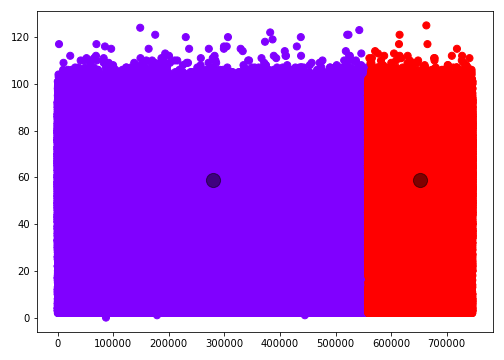
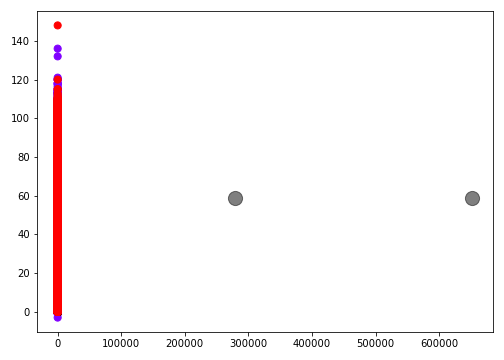
finalização

diff --git a/test.py b/test.py
@@ -32,8 +32,7 @@ teste2 = teste.values
 '''removendo valores diferentes de obitos e cura'''
 dados  = dados.drop(dados[dados['EVOLUCAO'] > 2 ].index)
 dados  = dados.drop(dados[dados['EVOLUCAO'] < 1  ].index)
-
-    
+   
 '''tranformando valores em rotulos'''
 #tst = teste['EVOLUCAO'].apply(preprocessing.LabelEncoder().fit_transform)        
 teste = dados.apply(preprocessing.LabelEncoder().fit_transform)
@@ -41,7 +40,7 @@ teste = dados.apply(preprocessing.LabelEncoder().fit_transform)
 # visualização de quantos registros existem por classe
 unicos,quantidade = np.unique(teste,return_counts=True)
 teste3 = teste.to_numpy()
-arr = teste['EVOLUCAO'].values
+
 #instanciando KMeans/ criando agrupamentos
 cluster = KMeans(n_clusters=2)
 cluster.fit(teste)
@@ -60,7 +59,6 @@ unicos2, quantidade2 = np.unique(previsoes,return_counts = True)
 resultados = confusion_matrix(teste['EVOLUCAO'],previsoes)
  
 '''-----------------------''' 
-
 from sklearn.metrics import pairwise_distances_argmin
 
 def find_clusters(X, n_clusters, rseed=2):
@@ -68,38 +66,34 @@ def find_clusters(X, n_clusters, rseed=2):
     rng = np.random.RandomState(rseed)
     i = rng.permutation(X.shape[0])[:n_clusters]
     centers = X[i]
-    
     centers_his = []
     labels_his = []
     
     while(True):
         # 2a. Assign labels based on closest center
         labels = pairwise_distances_argmin(X, centers)
-        
+
         # 2b. Find new centers from means of points
         new_centers = np.array([X[labels == i].mean(0)
                                 for i in range(n_clusters)])
-        
         # 2c. Check for convergence
         if np.all(centers == new_centers):
             break
         centers = new_centers
-        
         centers_his.append(centers)
         labels_his.append(labels)
-    
     return centers, labels, centers_his, labels_his
 
 centers, labels, centers_his, labels_his = find_clusters(teste3, 2)
 '''-------------------------'''
 
-
+dfm = dados[['EVOLUCAO', 'NU_IDADE_N']].values
 for i in range(len(centers_his)):
     centers = centers_his[i]
     labels = labels_his[i]
     fig = plt.figure(figsize=(7, 5))
     fig.set_tight_layout(True)
-    plt.scatter(teste3[:, 0], teste3[:, 1], c=labels,
+    plt.scatter(dfm[:, 0], dfm[:, 1], c=labels,
                 s=50, cmap='rainbow');
     plt.scatter(centers[:, 0], centers[:, 1], c='black', s=200, alpha=0.5);
     plt.savefig('kmeans_demo/{}.png'.format(i))
